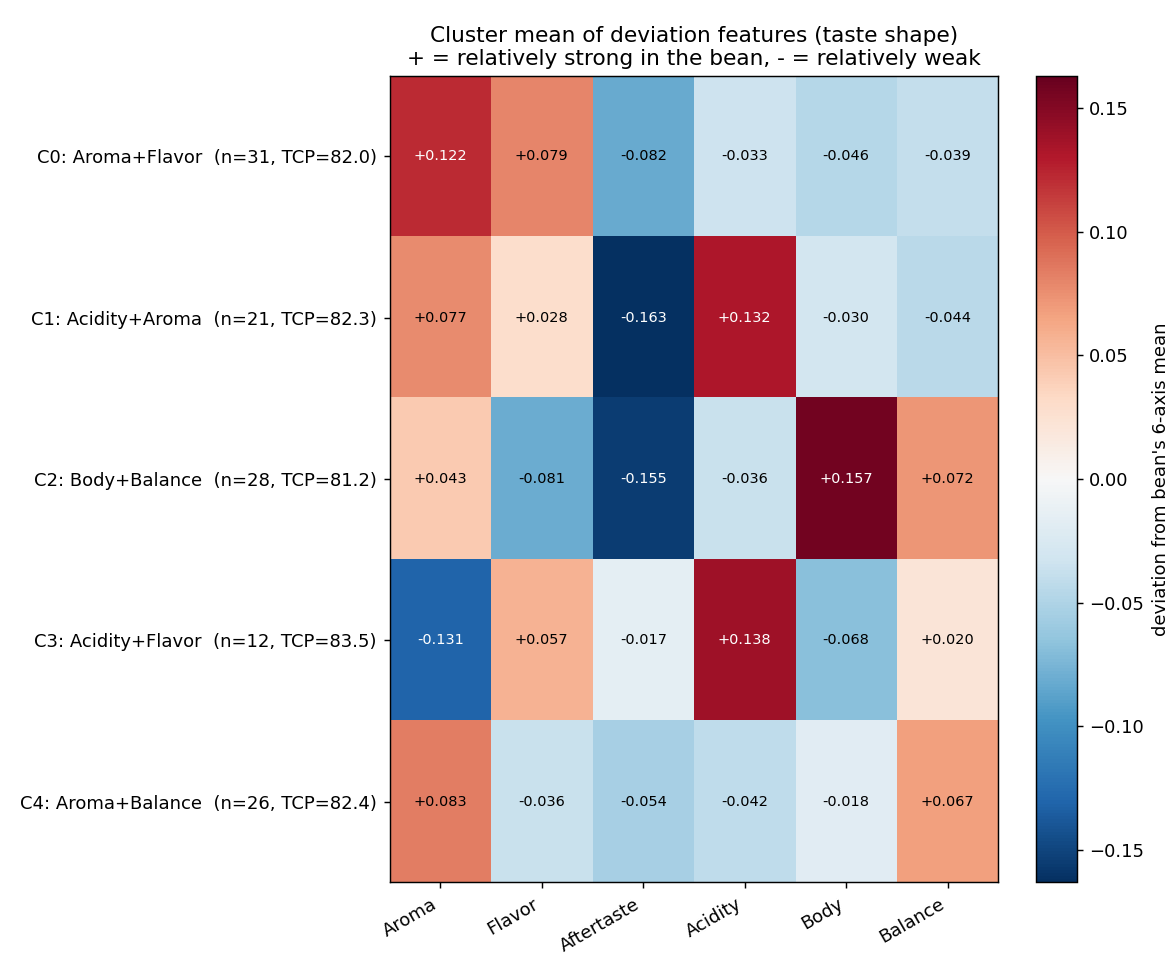
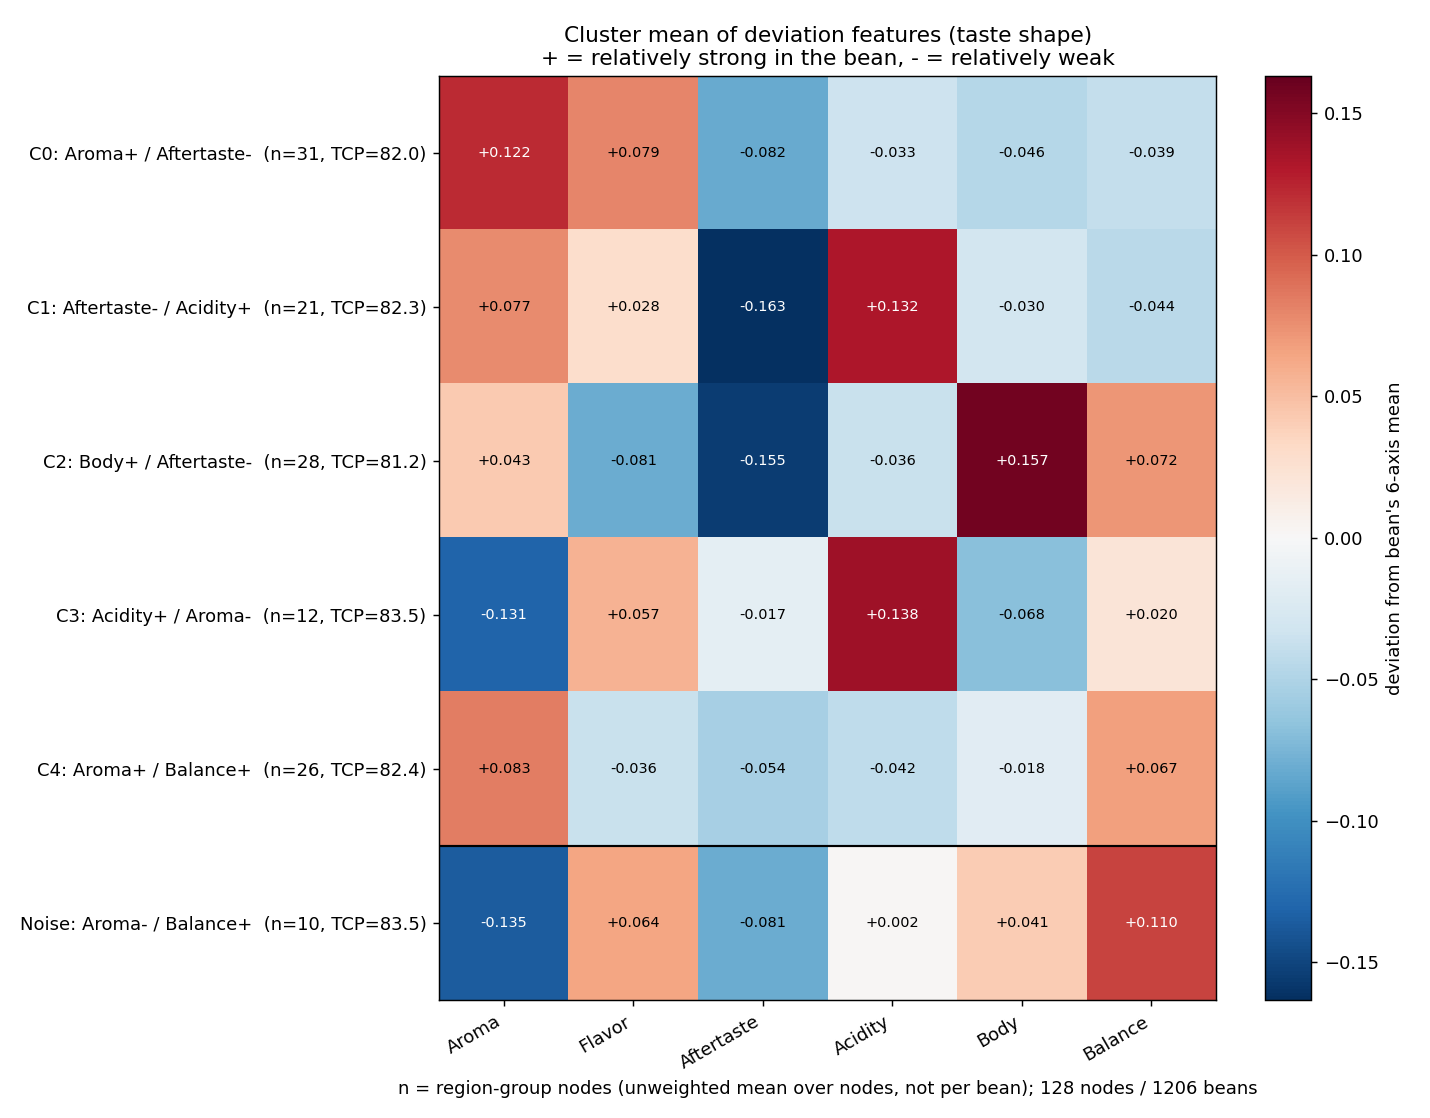
画像読み込みとヒートマップ修正

diff --git a/src/components/StartupGuide.jsx b/src/components/StartupGuide.jsx
@@ -1,20 +1,31 @@
 import { useEffect, useState } from "react";
 
+// 画像は WebP。表示枠(最大でも約800px幅)に対して十分な解像度に落としてあり、
+// 3枚あわせて約80KB。差し替える際も PNG のまま置かないこと（1枚200KB超になる）。
 const PAGES = [
   {
     title: "地図の見かた",
     text: "世界のコーヒー豆の味覚データを、産地ごとに地図へ並べたサイトです。\n点が産地（国と地域）、点の色が味わいのタイプを表します。\n色が同じ産地は、味の傾向が似ています。\n横に伸びるオレンジの帯は、産地が集中している\nコーヒーベルト（南北25度にはさまれた範囲）です。",
-    image: "/images/image_map_concept.png",
+    image: "/images/image_map_concept.webp",
+    alt: "地図上に産地の点と、コーヒーベルトの帯が表示された画面",
+    width: 1280,
+    height: 673,
   },
   {
     title: "産地の詳細を見る",
     text: "点をクリックすると、その産地の詳細が右側に開きます。\n酸味・コクなど6項目が全体の平均からどれだけ離れているか\n主な品種、味わいのタイプの内訳が並びます。\n「味が近い豆」に出てくる3件は、地図の上でも選んだ点から線でつながります。",
-    image: "/images/image_detail_panel.png",
+    image: "/images/image_detail_panel.webp",
+    alt: "産地をクリックして右側に詳細パネルが開いた画面",
+    width: 1060,
+    height: 620,
   },
   {
     title: "飲んだ豆から探す",
     text: "詳細パネルで好み度を5段階で選び、「飲んだ！」を押すと左のリストに残ります。\nいくつか記録したら「おすすめを計算する」を押してください。\n記録した好みに近い産地を1件選んで、地図の上で黄色く光らせます。",
-    image: "/images/image_rating_recommend.png",
+    image: "/images/image_rating_recommend.webp",
+    alt: "好み度を付けた豆の一覧と、おすすめの産地が光っている画面",
+    width: 1060,
+    height: 620,
   },
 ];
 
@@ -60,6 +71,15 @@ export default function StartupGuide({ isOpen, onClose }) {
     if (isOpen) setCurrentPage(0);
   }, [isOpen]);
 
+  // ガイドを閉じていてもマウント時に3枚とも取得しておく。
+  // ヘッダーの「?」から後で開いたときも、待ち時間なしで表示される。
+  useEffect(() => {
+    for (const p of PAGES) {
+      const img = new Image();
+      img.src = p.image;
+    }
+  }, []);
+
   if (!isOpen) return null;
 
   const handleNext = () => {
@@ -89,13 +109,23 @@ export default function StartupGuide({ isOpen, onClose }) {
         </button>
 
         <div className="flex-1 flex flex-col relative bg-base-200/30 min-h-0 overflow-hidden">
-          <div className="flex-1 min-h-0 w-full bg-base-200 flex items-center justify-center p-3 sm:p-6 lg:p-12 relative">
-            {/* biome-ignore lint/a11y/useAltText: Startup guide decorative images */}
-            <img
-              src={page.image}
-              key={page.image}
-              className="h-full w-full object-contain rounded-xl shadow-lg animate-in fade-in zoom-in duration-500"
-            />
+          {/* 3枚とも常にDOMに残し、表示切替は opacity だけで行う。
+              ページを戻ったときに再デコード・再取得が起きず、切替が一瞬で済む。 */}
+          <div className="flex-1 min-h-0 w-full bg-base-200 relative">
+            {PAGES.map((p, idx) => (
+              <img
+                key={p.image}
+                src={p.image}
+                alt={p.alt}
+                width={p.width}
+                height={p.height}
+                decoding="async"
+                fetchPriority={idx === 0 ? "high" : "low"}
+                className={`absolute inset-0 h-full w-full object-contain p-3 sm:p-6 lg:p-12 rounded-xl shadow-lg transition-opacity duration-300 ${
+                  idx === currentPage ? "opacity-100" : "opacity-0"
+                }`}
+              />
+            ))}
           </div>
 
           <div className="shrink-0 h-[35%] min-h-[160px] sm:min-h-[200px] p-5 sm:p-8 lg:px-16 flex flex-col items-center justify-center text-center bg-base-100 animate-in fade-in slide-in-from-bottom-4 duration-500">

diff --git a/src/lib/clusters.js b/src/lib/clusters.js
@@ -17,8 +17,11 @@ export function clusterIndex(name) {
   return m ? parseInt(m[1], 10) : null;
 }
 
+// どのクラスタにも属さない豆の名前。precompute_data.py が付ける値と揃える。
+export const NOISE_NAME = "独自の味わい";
+
 export function isNoise(name) {
-  return !name || name.includes("ノイズ");
+  return !name || name === NOISE_NAME || name.includes("ノイズ");
 }
 
 // クラスタの基準色（凡例・バッジ・枠線用）
@@ -30,7 +33,7 @@ export function clusterColor(name) {
 
 // 表示用に "(C3)" を取り除いた短い名前
 export function shortName(name) {
-  if (isNoise(name)) return "ノイズ (独自路線)";
+  if (isNoise(name)) return NOISE_NAME;
   return (name || "").replace(/\s*\(C\d+\)\s*$/, "");
 }
 

diff --git a/index.html b/index.html
@@ -5,6 +5,13 @@
     <meta name="viewport" content="width=device-width, initial-scale=1" />
     <title>coffee-flavor-map</title>
     <link rel="icon" href="/public/images/fabicon.ico" />
+    <!-- 初回訪問時はスタートガイドが自動で開くため、1枚目だけJSより先に取得を始める -->
+    <link
+      rel="preload"
+      as="image"
+      href="/images/image_map_concept.webp"
+      type="image/webp"
+    />
     <meta
       name="description"
       content="味の傾向から自分好みのコーヒー豆を探せる可視化アプリです。"

diff --git a/scripts/precompute_data.py b/scripts/precompute_data.py
@@ -55,7 +55,7 @@ AXIS_LOW = {
     "Body": "軽やか",
     "Balance": "個性際立つ",
 }
-# 英語短ラベル(PNG用)で2軸目を含める閾値
+# 英語短ラベル(PNG用)で2軸目を含める閾値（偏差の絶対値で判定）
 SECOND_AXIS_THRESHOLD = 0.02
 # クラスタ名に軸を含める偏差の閾値（絶対値がこの値以上の軸だけを命名に使う）
 NAME_THRESHOLD = 0.1
@@ -118,12 +118,22 @@ def assign_cluster_name(dev_mean: pd.Series, c: int) -> str:
 
 
 def english_short_label(dev_mean: pd.Series) -> str:
-    """ヒートマップ/散布図用の英語短ラベル（上位1〜2軸）。matplotlib文字化け回避。"""
-    ordered = dev_mean.sort_values(ascending=False)
-    bases = [idx.replace("_dev", "") for idx in ordered.index]
-    if ordered.values[1] >= SECOND_AXIS_THRESHOLD:
-        return f"{bases[0]}+{bases[1]}"
-    return bases[0]
+    """ヒートマップ/散布図用の英語短ラベル（際立つ上位1〜2軸）。matplotlib文字化け回避。
+
+    assign_cluster_name と同じく |偏差| の降順で見る。生の値の降順で選ぶと
+    マイナス側に大きく振れた軸（例: C1 の Aftertaste -0.163）がラベルから
+    落ち、日本語のクラスタ名（「後味すっきり」）と食い違ってしまうため。
+    どちら向きに振れた軸かが分かるよう符号を +/- で付ける。
+    """
+    ordered = dev_mean.reindex(dev_mean.abs().sort_values(ascending=False).index)
+
+    def tag(idx, val):
+        return f"{idx.replace('_dev', '')}{'+' if val >= 0 else '-'}"
+
+    parts = [tag(ordered.index[0], ordered.iloc[0])]
+    if abs(ordered.iloc[1]) >= SECOND_AXIS_THRESHOLD:
+        parts.append(tag(ordered.index[1], ordered.iloc[1]))
+    return " / ".join(parts)
 
 
 def plot_scatter(nodes, cluster_names, has_tcp):
@@ -172,12 +182,18 @@ def plot_heatmap(nodes, cluster_names, has_tcp):
         print("    [skip] クラスタが無いためヒートマップは省略")
         return
 
+    # 個性派(-1)も1行として出す。除外すると図が全ノードを説明できず、
+    # 行の n を足しても総ノード数に届かない理由が図から読み取れないため。
+    groups = [(f"C{c}", nodes[nodes["_cluster_label"] == c]) for c in cluster_ids]
+    noise = nodes[nodes["_cluster_label"] == -1]
+    if len(noise):
+        groups.append(("Noise", noise))
+
     rows, ylabels = [], []
-    for c in cluster_ids:
-        sub = nodes[nodes["_cluster_label"] == c]
+    for name, sub in groups:
         dev_mean = sub[DEV_COLS].mean()
         rows.append(dev_mean.values)
-        label = f"C{c}: {english_short_label(dev_mean)}  (n={len(sub)}"
+        label = f"{name}: {english_short_label(dev_mean)}  (n={len(sub)}"
         if has_tcp:
             label += f", TCP={sub['Total.Cup.Points'].mean():.1f}"
         label += ")"
@@ -186,7 +202,8 @@ def plot_heatmap(nodes, cluster_names, has_tcp):
     mat = np.array(rows)
     vmax = np.abs(mat).max()
 
-    fig, ax = plt.subplots(figsize=(9, 1.1 * len(rows) + 2))
+    # 幅は行ラベル（軸名2つ＋n＋TCP）とカラーバーのラベルが切れない実測値
+    fig, ax = plt.subplots(figsize=(11, 1.1 * len(rows) + 2))
     im = ax.imshow(mat, cmap="RdBu_r", vmin=-vmax, vmax=vmax, aspect="auto")
 
     ax.set_xticks(range(len(TASTE_COLS)))
@@ -202,8 +219,19 @@ def plot_heatmap(nodes, cluster_names, has_tcp):
                     fontsize=8,
                     color="white" if abs(val) > vmax * 0.6 else "black")
 
+    # 個性派はクラスタではないので、罫線で区切って別枠であることを示す
+    if len(noise):
+        ax.axhline(len(groups) - 1.5, color="black", linewidth=1.2)
+
     ax.set_title("Cluster mean of deviation features (taste shape)\n"
                  "+ = relatively strong in the bean, - = relatively weak")
+    # n はノード数(産地グループ数)であって豆の本数ではない点を明示する。
+    # 1豆のグループも124豆のグループも等しく1行に効くため、読み違えやすい。
+    n_beans = int(nodes["sample_count"].sum()) if "sample_count" in nodes else 0
+    ax.set_xlabel(
+        f"n = region-group nodes (unweighted mean over nodes, not per bean); "
+        f"{len(nodes)} nodes / {n_beans} beans"
+    )
     fig.colorbar(im, ax=ax, label="deviation from bean's 6-axis mean")
     fig.tight_layout()
     fig.savefig(HEATMAP_PNG, dpi=130)
